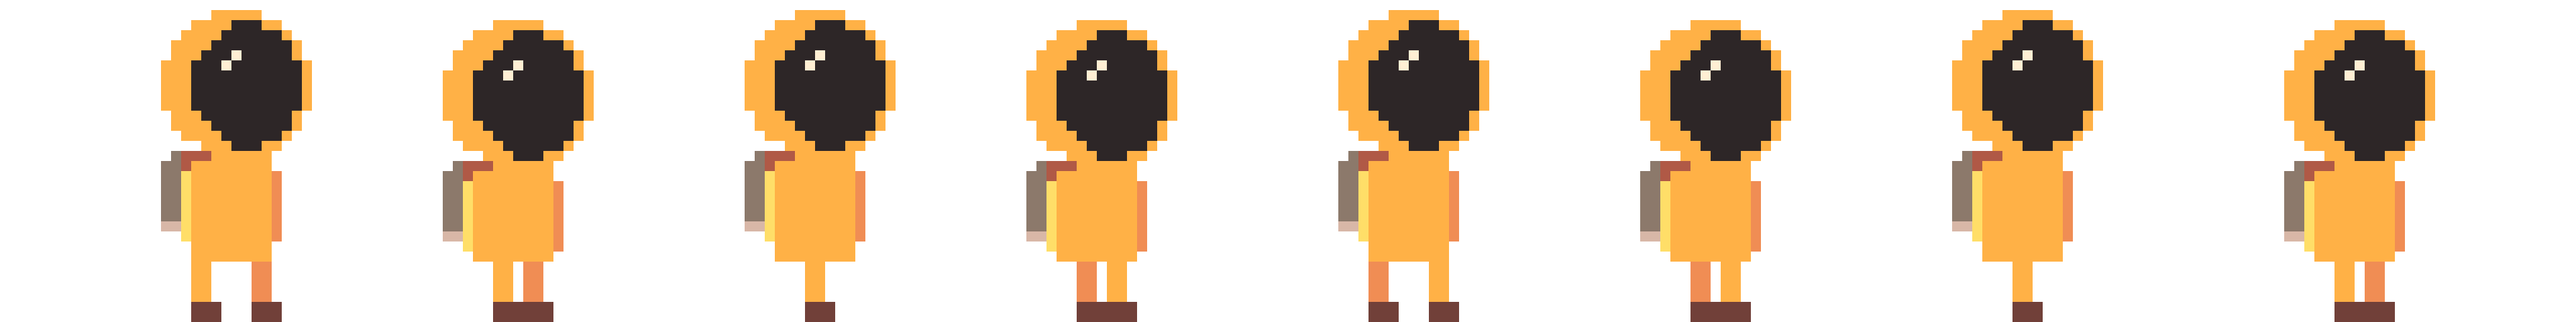
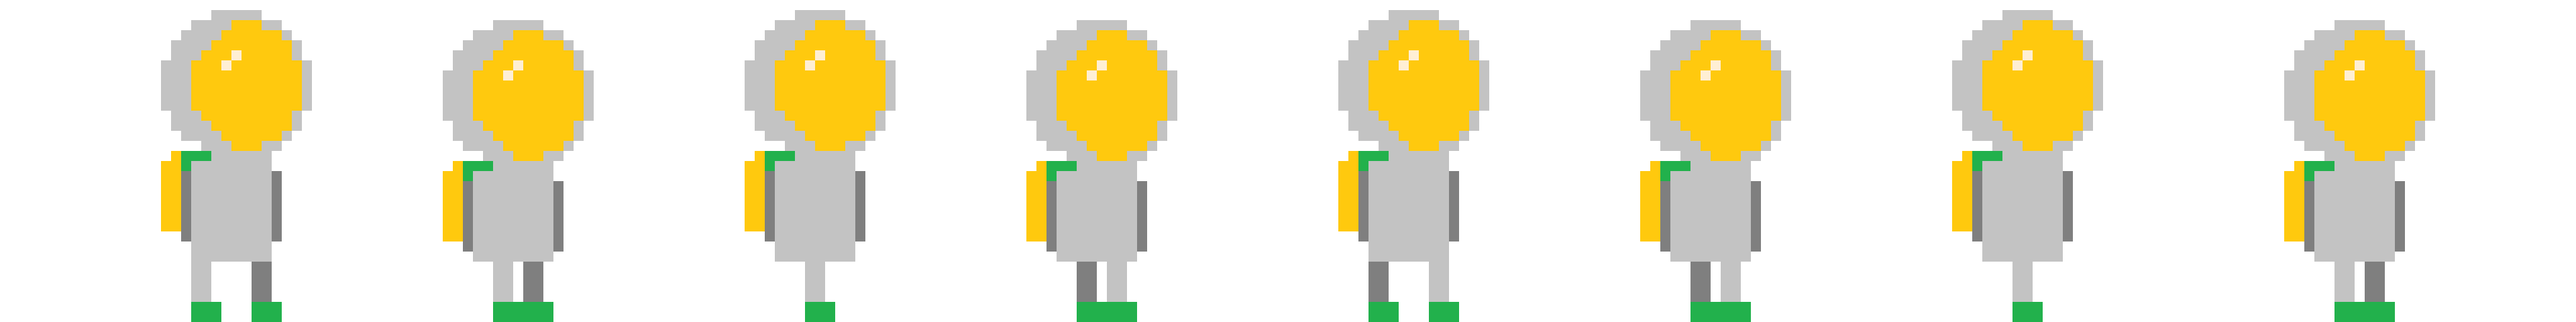
End of day commit. Added UI changes. Recoloured man.

diff --git a/Assets/Scripts/AnimatedDialog.cs b/Assets/Scripts/AnimatedDialog.cs
@@ -14,6 +14,11 @@ public class AnimatedDialog : MonoBehaviour {
     public GameObject starportImage;
     public GameObject ecoProductImage;
     public GameObject touristImage;
+    public Image elon;
+    public Sprite elon_Sprite1;
+    public Sprite elon_Sprite2;
+    public Sprite elon_Sprite3;
+
     public string[] readString;
     public int levelNumber;
 
@@ -28,8 +33,8 @@ public class AnimatedDialog : MonoBehaviour {
     void Start ()
     {
         LoadGame();
-
         if (levelNumber == 1){
+            elon.sprite = elon_Sprite1;
             readString  = new string[10] {
                 "Hello, my name is Elon and I am an investor for this space tourism company",
                 "I have been tasked to guide you in constructing a suitable spacecraft for space tourism",
@@ -44,6 +49,7 @@ public class AnimatedDialog : MonoBehaviour {
             };
         }
         if (levelNumber == 2){
+            elon.sprite = elon_Sprite2;
             readString = new string[11] {
                 "Good job with successfully docking at the spaceport",
                 "\u0022If you get up in the morning and think the future is going to be better, it is a bright day\u0022",
@@ -59,6 +65,7 @@ public class AnimatedDialog : MonoBehaviour {
             };
         }
         if (levelNumber == 3){
+            elon.sprite = elon_Sprite3;
             readString  = new string[14] {
                 "Yeah...um...it is currently not economically feasible to throw rubbish into the sun.", 
                 "Oh well. Can't say I didn't try", 
